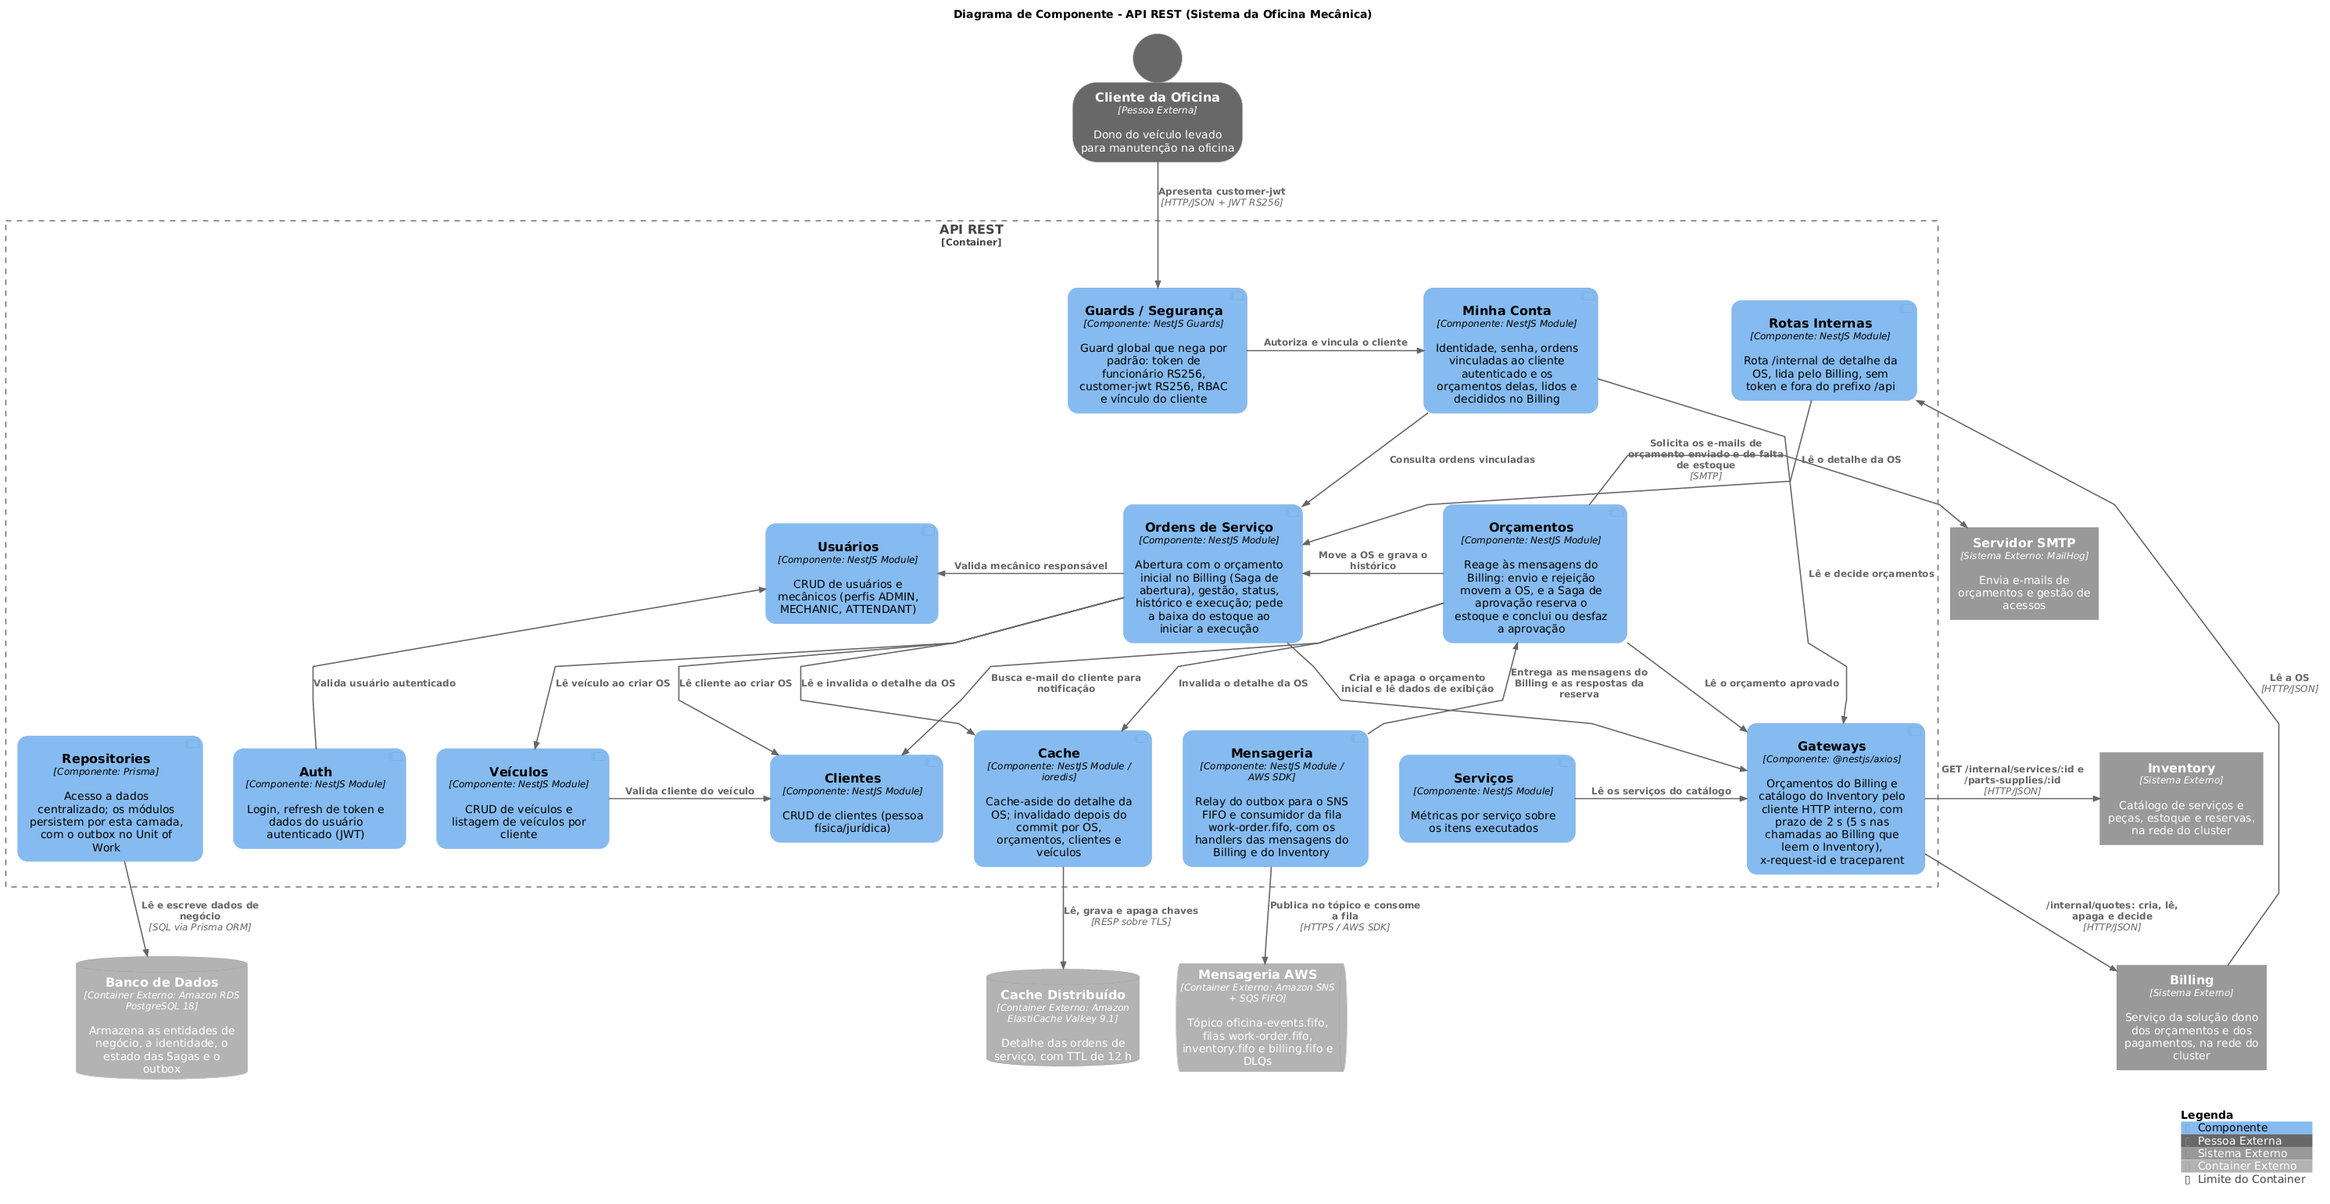
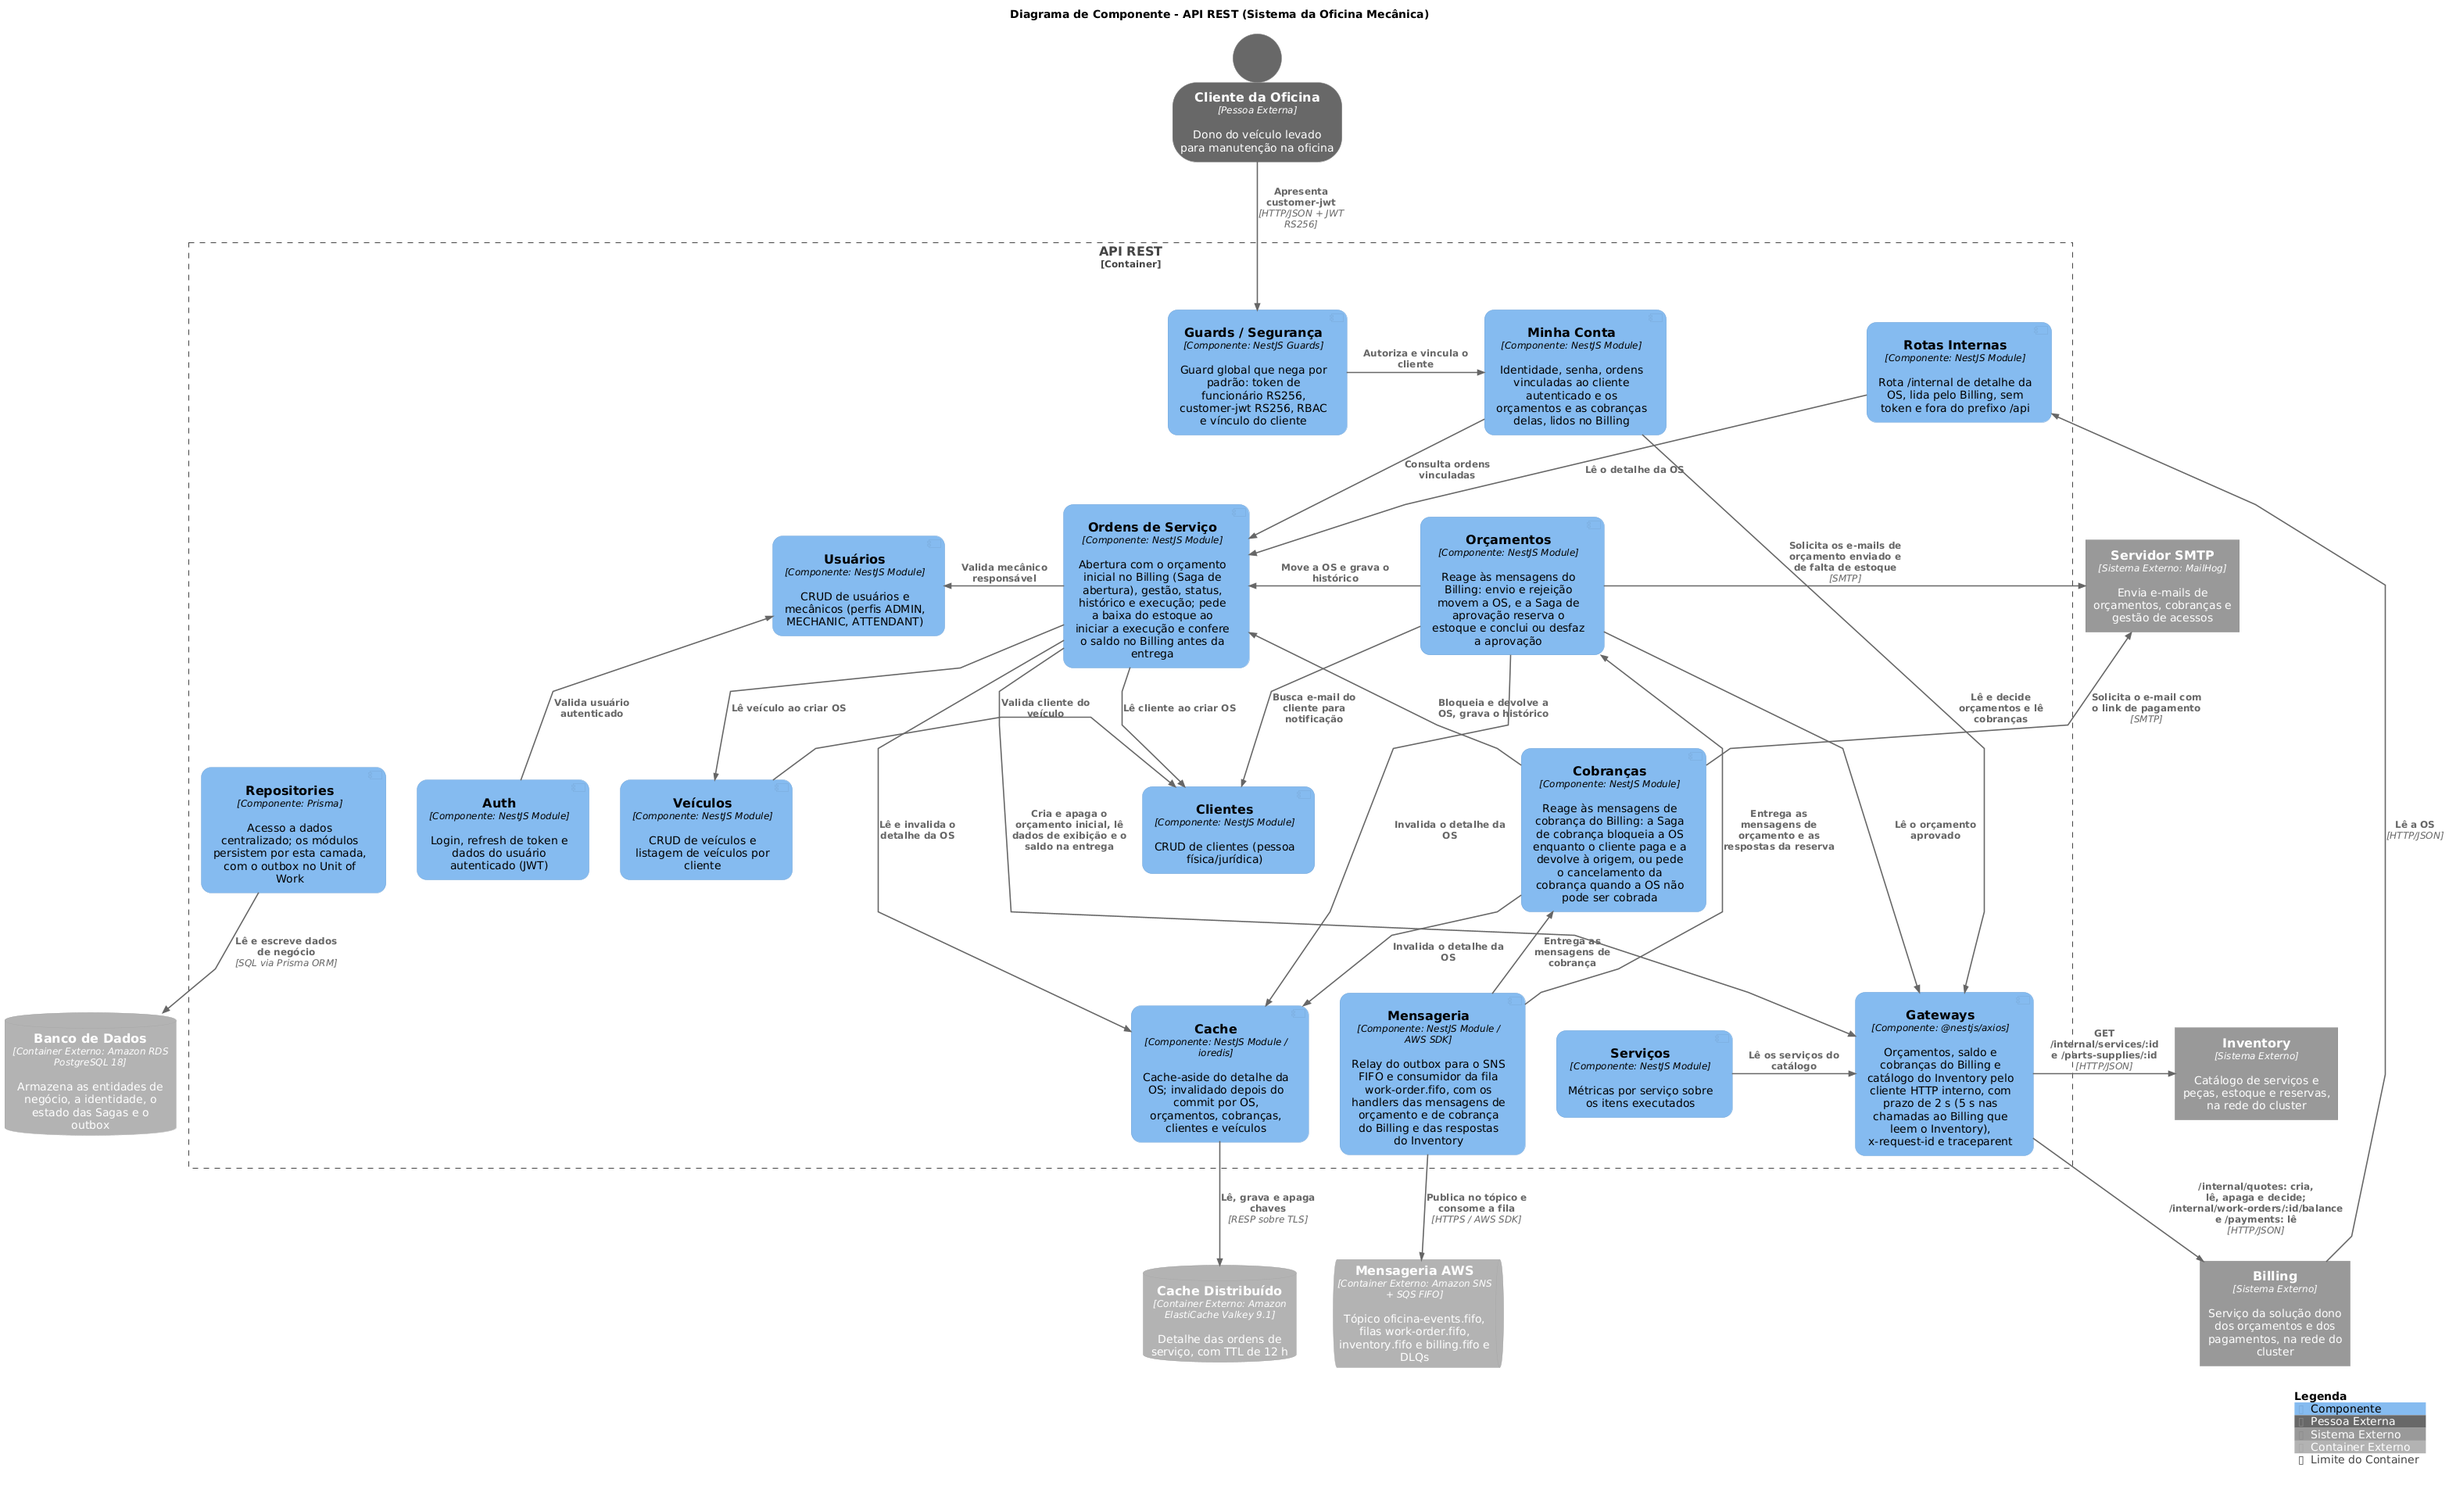
docs(work-order): render c4 component with payment saga

diff --git a/docs/testing.md b/docs/testing.md
@@ -219,7 +219,7 @@ Na stack do compose (a partir de `app/`):
 docker compose exec postgres psql -U postgres -d work_order -c "INSERT INTO outbox (message_id, type, work_order_id, payload) VALUES (gen_random_uuid(), 'billing.payment.failed', NULL, jsonb_build_object('paymentId', gen_random_uuid(), 'reason', 'EXPIRED'))"
 ```
 
-Para ver o caminho da falha até a DLQ (fila de mensagens que falharam, `work-order-dlq.fifo`), troque o payload por `'{}'`: sem `paymentId`, a validação do payload recusa a mensagem, o consumidor registra `messaging.message.failed` a cada entrega e, na quinta, `messaging.message.dead_lettered`, e o SQS a move para a DLQ.
+Para ver o caminho da falha até a DLQ (fila de mensagens que falharam, `work-order-dlq.fifo`), troque o payload por `'{}'`: sem `paymentId`, a validação do payload recusa a mensagem, o consumidor registra `messaging.message.failed` nas quatro primeiras entregas e `messaging.message.dead_lettered` na quinta, e o SQS a move para a DLQ.
 
 No banco de um ambiente implantado, o mesmo `INSERT` vale em qualquer cliente SQL conectado ao banco do serviço. `message_id` não tem valor padrão no banco, por isso o `gen_random_uuid()`; um `work_order_id` preenchido precisa ser de uma OS existente, por causa da FK.
 
